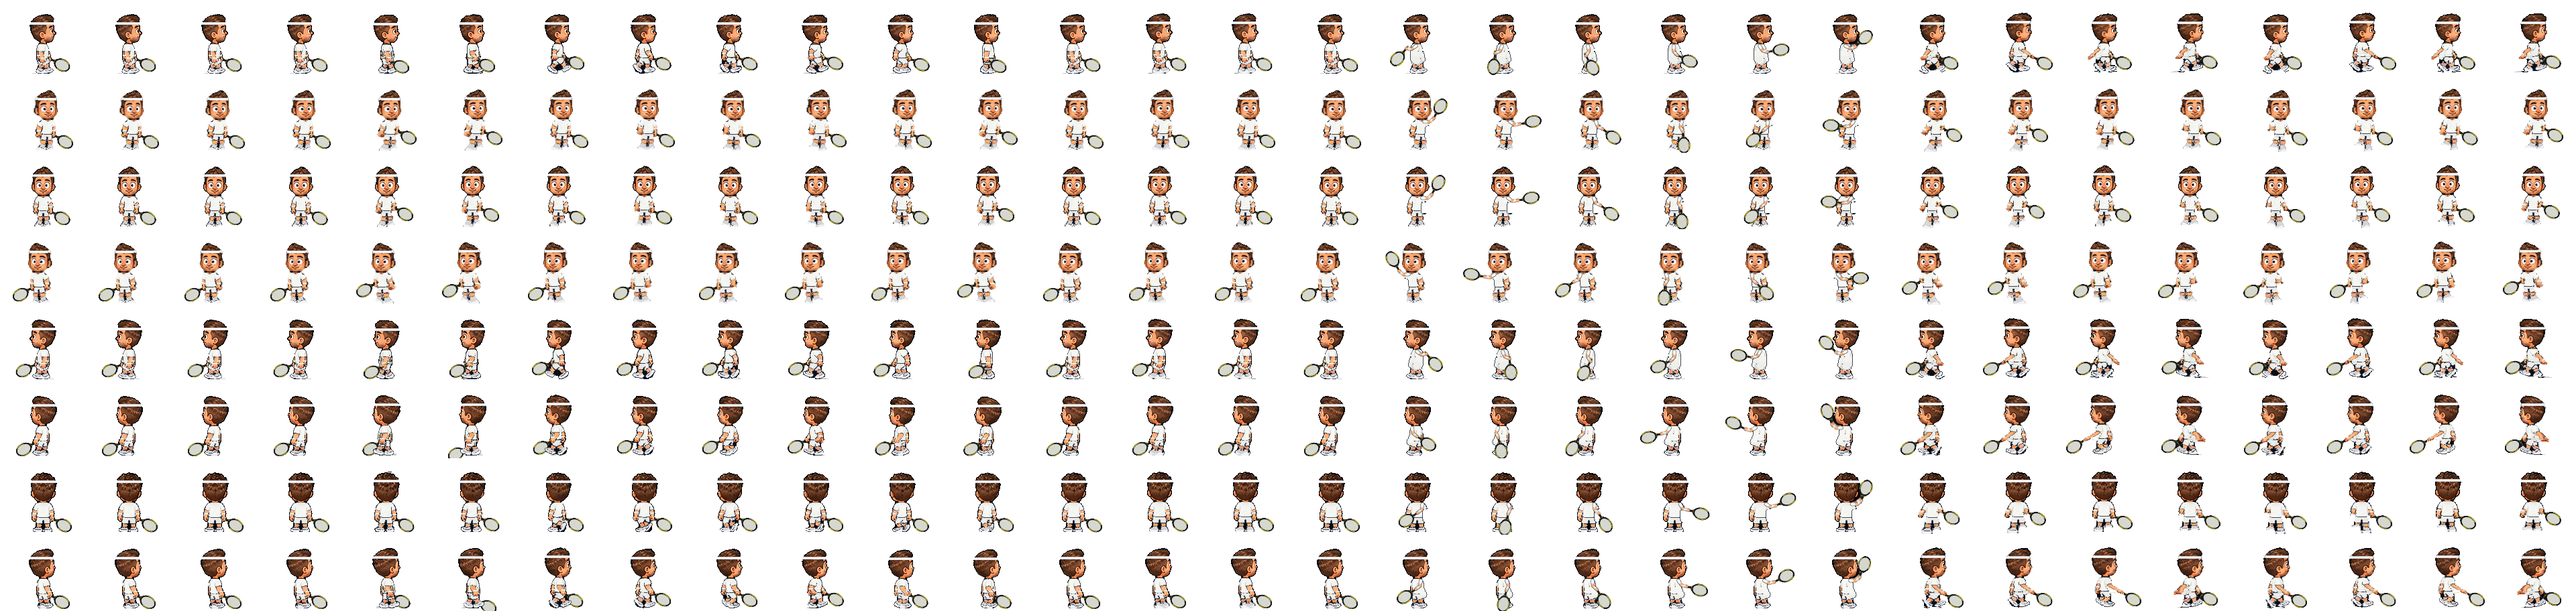
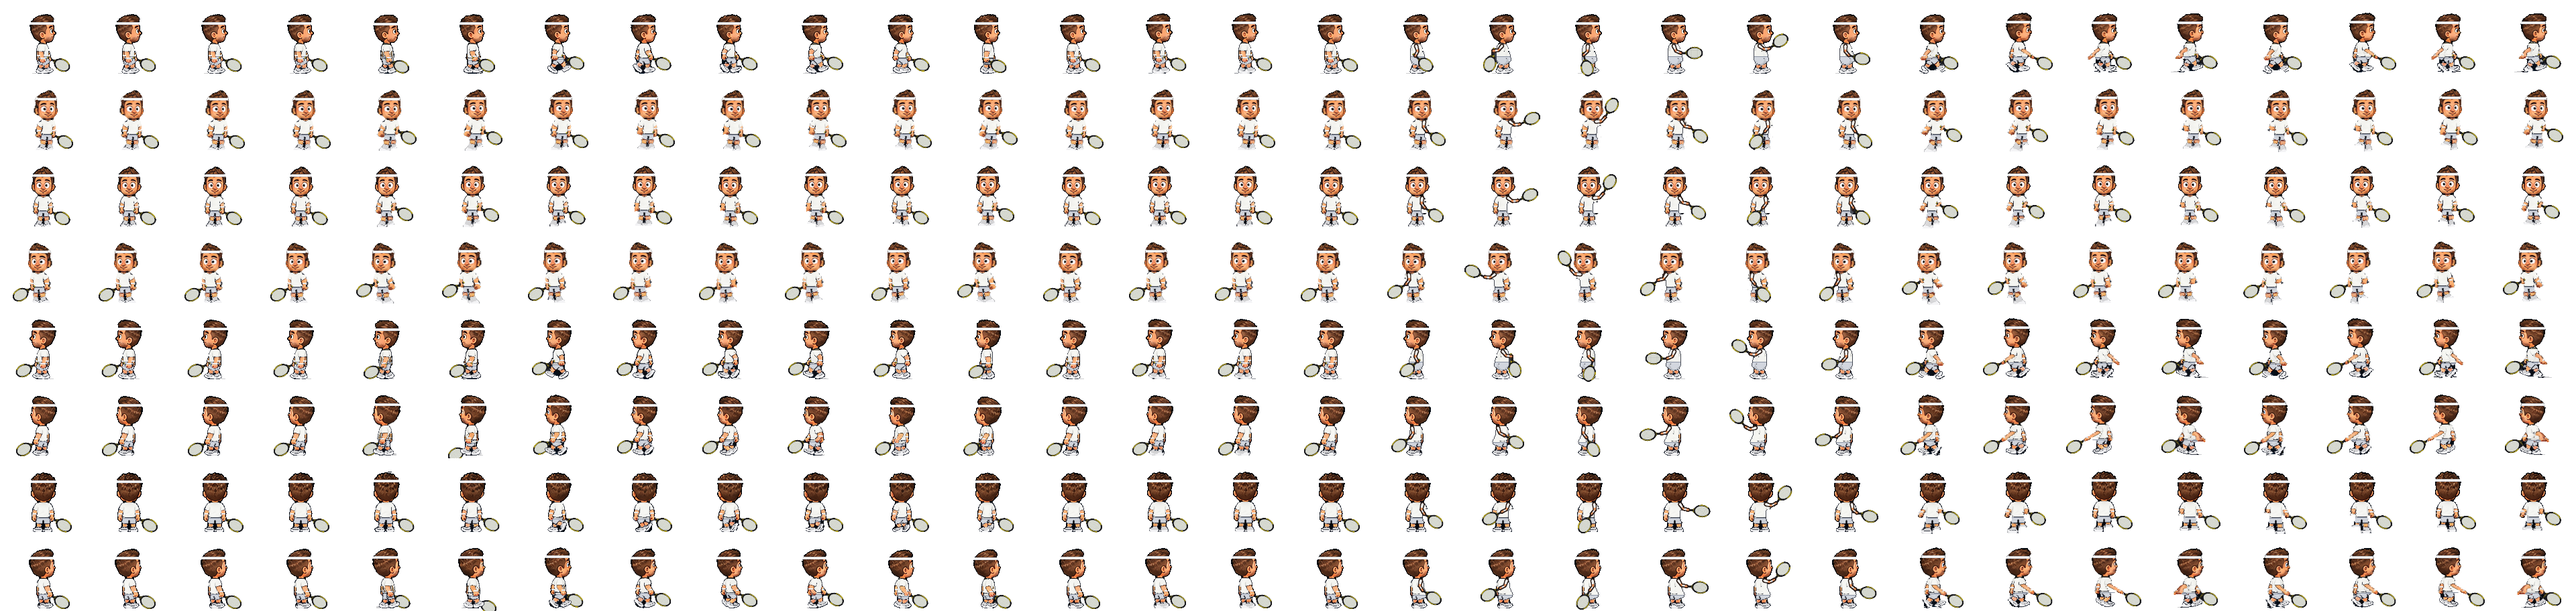
Tennis James: bold connected swing arm, idle-matched swing ends, grey shorts with waistband

diff --git a/phaser-tag-client/tools/make_tennis_skin.py b/phaser-tag-client/tools/make_tennis_skin.py
@@ -48,7 +48,9 @@ PROFILE = {"E": 1, "W": -1}
 BACK = {"NW": -1, "N": 0, "NE": 1}
 
 WHITE = (247, 247, 243)
-SHORTS = (238, 238, 235)
+SHORTS = (210, 214, 222)
+WAISTBAND = (140, 148, 164)
+ARM_LINE = (40, 26, 22)
 SOCK = (250, 250, 248)
 SHOE = (244, 244, 246)
 SOLE = (196, 200, 208)
@@ -220,12 +222,12 @@ def arm_parts(sh, elbow, hand, skin, sleeve=0.4):
     sh0 = (band0[0] + nx * 1.0, band0[1] + ny * 1.0)
     sh1 = (wrist[0] + nx * 1.0, wrist[1] + ny * 1.0)
     return [
-        (capsule_fn(sh, 2.7, elbow, 2.35), skin),
-        (capsule_fn(elbow, 2.35, wrist, 2.0), skin),
-        (capsule_fn(sh, 2.6, sleeve_end, 2.45), WHITE),
-        (capsule_fn(band0, 2.35, wrist, 2.35), BAND),
+        (capsule_fn(sh, 3.0, elbow, 2.6), skin),
+        (capsule_fn(elbow, 2.6, wrist, 2.3), skin),
+        (capsule_fn(sh, 3.2, sleeve_end, 3.0), WHITE),
+        (capsule_fn(band0, 2.6, wrist, 2.6), BAND),
         (capsule_fn(sh0, 1.3, sh1, 1.3), BAND_SHADE),
-        (disc_fn(hand, 2.45), skin),
+        (disc_fn(hand, 2.8), skin),
     ]
 
 
@@ -238,10 +240,12 @@ def _arc(a0, a1, l0, l1, n=6):
             [l0 + (l1 - l0) * i / (n - 1) for i in range(n)])
 
 
+# start near the idle hang (racket low in front), wind back, swing through,
+# settle back toward idle so entering / leaving the tag doesn't pop
 SWING = {
-    "profile": _arc(165, 5, -34, -49),
-    "front": _arc(-20, 150, -40, 35),
-    "back": _arc(120, -20, 25, -50),
+    "profile": ([95, 150, 115, 45, 15, 70], [-55, -45, -40, -45, -50, -55]),
+    "front": ([75, 15, -25, 35, 105, 80], [-40, -40, -35, 5, 25, -35]),
+    "back": ([80, 130, 105, 35, -5, 60], [-45, 20, 15, -30, -45, -45]),
 }
 
 
@@ -327,6 +331,11 @@ def recolor(f, g):
 
     paint(shirt, WHITE)
     paint(shorts, SHORTS, 0.82)
+    # waistband: the top row of the shorts in every column, a darker grey line
+    if shorts.any():
+        top = shorts & ~np.roll(shorts, 1, 0)
+        top &= yy <= waist + 1
+        out[top, :3] = WAISTBAND
     # sneakers: white uppers, the bottom 1-2 rows of each shoe grey sole
     sole = np.zeros_like(shoes)
     for x in range(w):
@@ -510,6 +519,8 @@ def tennify(frame, direction, anim, col, meta, memo, env_memo):
         px_ = f[sk_all][:, :3].astype(int)
         px_ = px_[px_.sum(1) >= np.percentile(px_.sum(1), 50)]
         skin_rgb = tuple(int(v) for v in np.median(px_, 0))
+        # a touch deeper than the lit face so the arm reads on the white shirt
+        skin_rgb = tuple(int(v * k) for v, k in zip(skin_rgb, (0.95, 0.84, 0.78)))
     else:
         skin_rgb = (246, 182, 132)
 
@@ -526,7 +537,7 @@ def tennify(frame, direction, anim, col, meta, memo, env_memo):
         e1 = ik(sh, hand, 8.3, 7.9, 1)
         e2 = ik(sh, hand, 8.3, 7.9, -1)
         elbow = e1 if e1[1] >= e2[1] else e2
-        drawn = shapes_layer(size, arm_parts(sh, elbow, hand, skin_rgb, 0.3), LINE, 0.55)
+        drawn = shapes_layer(size, arm_parts(sh, elbow, hand, skin_rgb, 0.3), ARM_LINE, 1.2)
         hx, hy = hand
         rang = ri
     else:
